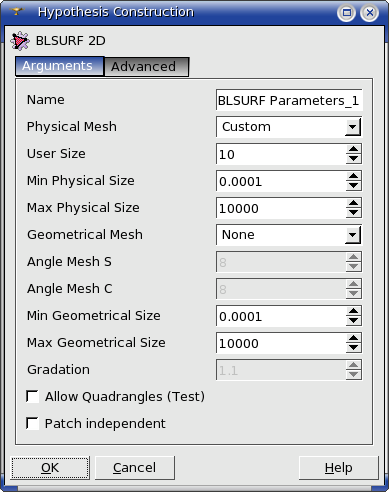
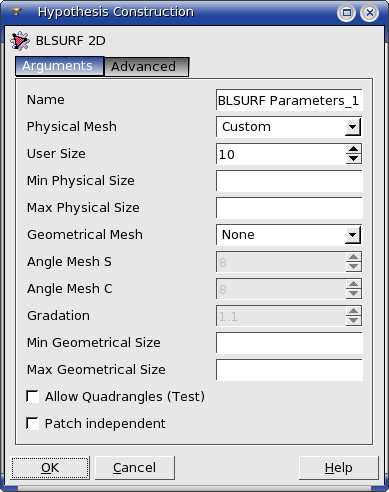
add more options to BLSURF

diff --git a/src/SMESH_SWIG/smeshDC.py b/src/SMESH_SWIG/smeshDC.py
@@ -2921,6 +2921,20 @@ class Mesh_Triangle(Mesh_Algorithm):
             self.Parameters()
         self.params.SetPhySize(theVal)
 
+    ## Sets lower boundary of mesh element size (PhySize)
+    #  Parameter of BLSURF algo
+    def SetPhyMin(self, theVal=-1):
+        if self.params == 0:
+            self.Parameters()
+        self.params.SetPhyMin(theVal)
+
+    ## Sets upper boundary of mesh element size (PhySize)
+    #  Parameter of BLSURF algo
+    def SetPhyMax(self, theVal=-1):
+        if self.params == 0:
+            self.Parameters()
+        self.params.SetPhyMax(theVal)
+
     ## Sets a way to define maximum angular deflection of mesh from CAD model
     #  @param theGeometricMesh is: DefaultGeom or Custom
     #  Parameter of BLSURF algo
@@ -2945,6 +2959,20 @@ class Mesh_Triangle(Mesh_Algorithm):
             self.Parameters()
         if self.params.GetGeometricMesh() == 0: theVal = self._angleMeshS
         self.params.SetAngleMeshC(theVal)
+
+    ## Sets lower boundary of mesh element size computed to respect angular deflection
+    #  Parameter of BLSURF algo
+    def SetGeoMin(self, theVal=-1):
+        if self.params == 0:
+            self.Parameters()
+        self.params.SetGeoMin(theVal)
+
+    ## Sets upper boundary of mesh element size computed to respect angular deflection
+    #  Parameter of BLSURF algo
+    def SetGeoMax(self, theVal=-1):
+        if self.params == 0:
+            self.Parameters()
+        self.params.SetGeoMax(theVal)
 
     ## Sets maximal allowed ratio between the lengths of two adjacent edges
     #  Parameter of BLSURF algo
